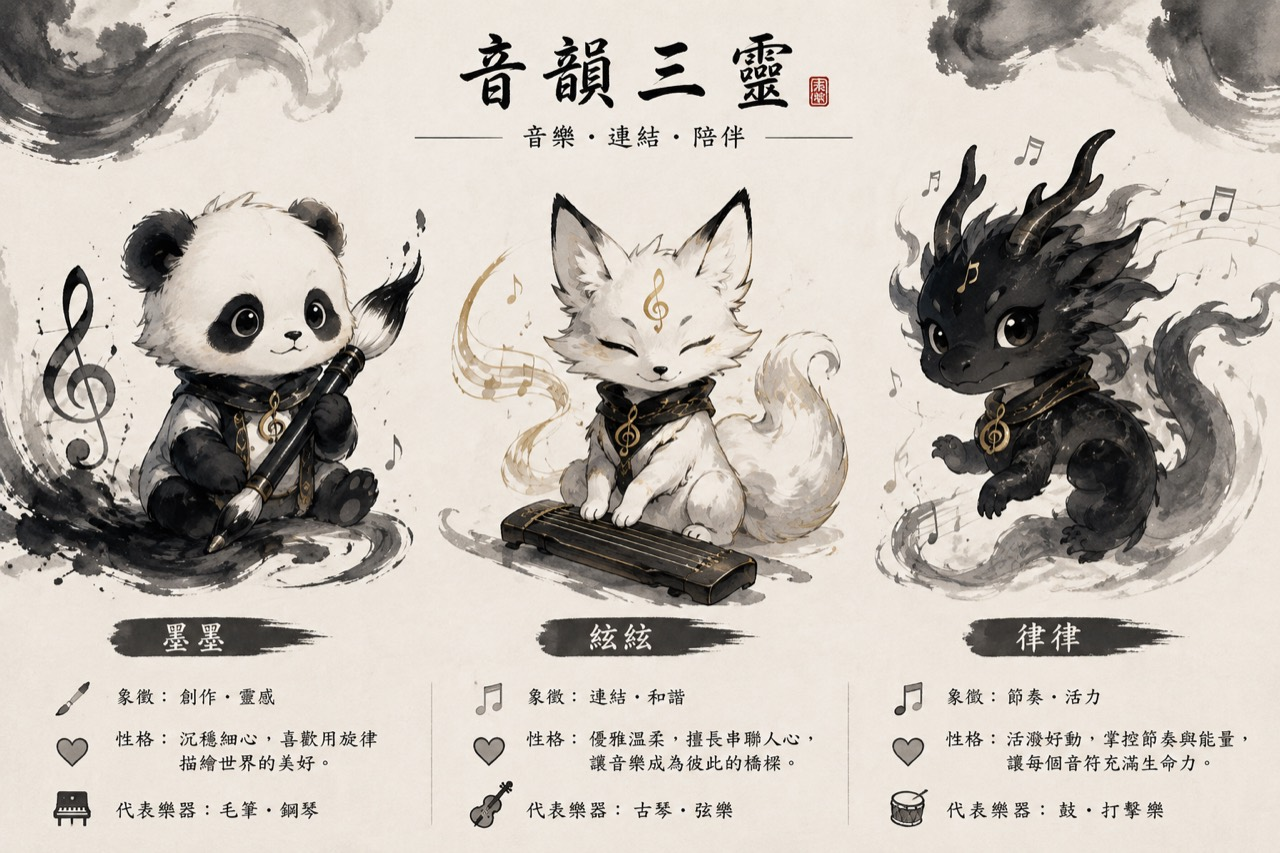
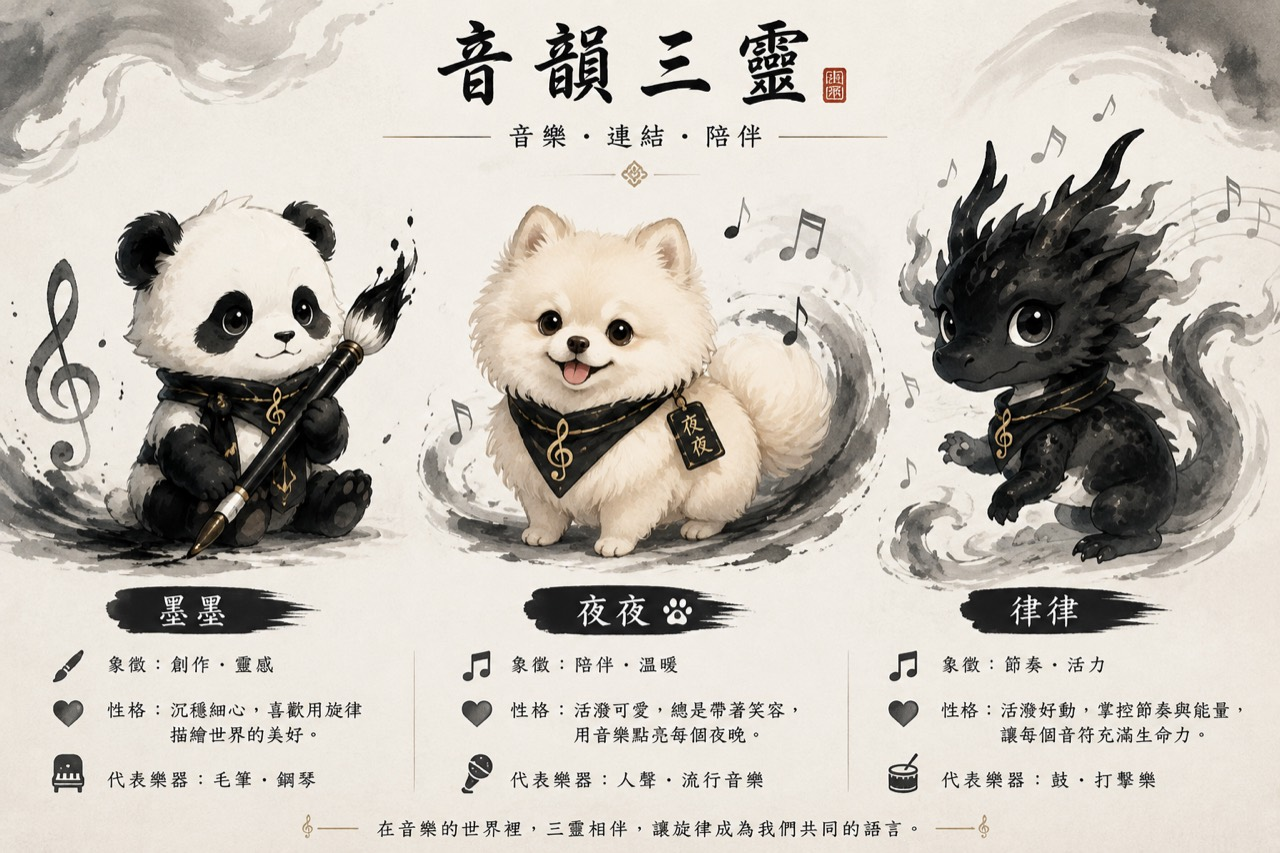
Replace fox mascot with Pomeranian

diff --git a/styles.css b/styles.css
@@ -37,13 +37,13 @@ body,body :where(a,button,input,select,textarea,label,p,span,small,strong,b,em,l
 .spirit-card:hover{transform:translateY(-7px);box-shadow:0 25px 58px rgba(35,51,43,.14);border-color:rgba(41,71,63,.34)}
 .spirit-card:after{content:'';position:absolute;left:0;right:0;bottom:0;height:3px;background:var(--green);transform:scaleX(0);transform-origin:left;transition:transform .35s}
 .spirit-card:hover:after,.spirit-card.is-playing:after{transform:scaleX(1)}
-.spirit-xianxian:after{background:var(--gold)}
+.spirit-yeye:after{background:var(--gold)}
 .spirit-lulu:after{background:var(--red)}
 .spirit-portrait{position:relative;display:block;width:100%;aspect-ratio:1/1;overflow:hidden;padding:0;border:0;border-bottom:1px solid var(--line);background:#efede6;cursor:pointer;text-align:left;-webkit-appearance:none;appearance:none}
 .spirit-portrait:focus-visible,.spirit-action:focus-visible,.spirit-ensemble:focus-visible{outline:3px solid rgba(156,60,50,.38);outline-offset:3px}
 .spirit-portrait img{position:absolute;top:-30%;width:300%;max-width:none;height:auto;filter:saturate(.82) contrast(1.05);transition:filter .3s,transform .3s;user-select:none;pointer-events:none}
 .spirit-momo .spirit-portrait img{left:0}
-.spirit-xianxian .spirit-portrait img{left:-100%;top:-39%}
+.spirit-yeye .spirit-portrait img{left:-100%;top:-38%}
 .spirit-lulu .spirit-portrait img{left:-200%}
 .spirit-card:hover .spirit-portrait img{filter:saturate(.98) contrast(1.07)}
 .spirit-hint{position:absolute;right:14px;bottom:14px;padding:7px 10px;background:rgba(28,45,39,.82);color:#fff;font-size:10px;letter-spacing:.12em;backdrop-filter:blur(7px);transition:opacity .2s,transform .2s}
@@ -55,38 +55,38 @@ body,body :where(a,button,input,select,textarea,label,p,span,small,strong,b,em,l
 .spirit-copy>p:not(.spirit-trait):not(.spirit-response){min-height:76px;margin:0;color:#657069;font-size:13px;line-height:1.9}
 .spirit-action{display:flex;align-items:center;justify-content:space-between;width:100%;margin-top:18px;padding:12px 14px;border:1px solid var(--green);background:transparent;color:var(--green);font:600 12px var(--sans);letter-spacing:.08em;cursor:pointer;transition:background .25s,color .25s,transform .25s}
 .spirit-action:hover{background:var(--green);color:#fff;transform:translateY(-2px)}
-.spirit-xianxian .spirit-action{border-color:#9b7447;color:#8a6336}
-.spirit-xianxian .spirit-action:hover{background:#9b7447;color:#fff}
+.spirit-yeye .spirit-action{border-color:#9b7447;color:#8a6336}
+.spirit-yeye .spirit-action:hover{background:#9b7447;color:#fff}
 .spirit-lulu .spirit-action{border-color:var(--red);color:var(--red)}
 .spirit-lulu .spirit-action:hover{background:var(--red);color:#fff}
 .spirit-response{min-height:18px;margin:11px 0 0;color:#7c8580;font-size:10px;line-height:1.6;letter-spacing:.04em;transition:color .2s}
 .spirit-card.is-playing .spirit-response{color:var(--red)}
 .spirit-effects{position:absolute;inset:0;overflow:hidden;pointer-events:none}
 .spirit-particle{position:absolute;left:50%;top:58%;z-index:3;color:var(--green);font:700 20px var(--calligraphy)!important;text-shadow:0 2px 12px rgba(255,255,255,.8);opacity:0;animation:spirit-particle-float 1.45s cubic-bezier(.19,.76,.26,1) forwards;animation-delay:var(--delay)}
-.spirit-xianxian .spirit-particle{color:#a47b43}
+.spirit-yeye .spirit-particle{color:#a47b43}
 .spirit-lulu .spirit-particle{color:var(--red)}
 .spirit-card.is-playing .spirit-portrait:after{content:'';position:absolute;inset:18%;z-index:2;border:2px solid rgba(41,71,63,.25);border-radius:50%;animation:spirit-ring 1.25s ease-out forwards;pointer-events:none}
-.spirit-xianxian.is-playing .spirit-portrait:after{border-color:rgba(180,145,97,.42)}
+.spirit-yeye.is-playing .spirit-portrait:after{border-color:rgba(180,145,97,.42)}
 .spirit-lulu.is-playing .spirit-portrait:after{border-color:rgba(156,60,50,.48);animation:spirit-beat-ring .8s ease-out 2}
 .spirit-momo.is-playing .spirit-portrait img{animation:momo-brush 1.25s ease-in-out}
-.spirit-xianxian.is-playing .spirit-portrait img{animation:xianxian-chord 1.45s ease-in-out}
+.spirit-yeye.is-playing .spirit-portrait img{animation:yeye-sing 1.45s ease-in-out}
 .spirit-lulu.is-playing .spirit-portrait img{animation:lulu-beat .86s cubic-bezier(.2,.8,.3,1) 2}
 @keyframes spirit-particle-float{0%{opacity:0;transform:translate(-50%,-50%) scale(.4) rotate(0)}18%{opacity:1}100%{opacity:0;transform:translate(calc(-50% + var(--x)),calc(-50% + var(--y))) scale(1.25) rotate(var(--rotation))}}
 @keyframes spirit-ring{0%{opacity:.75;transform:scale(.45)}100%{opacity:0;transform:scale(1.45)}}
 @keyframes spirit-beat-ring{0%{opacity:.8;transform:scale(.5)}100%{opacity:0;transform:scale(1.7)}}
 @keyframes momo-brush{0%,100%{transform:translate(0) rotate(0)}28%{transform:translate(-1.6%,1%) rotate(-1.2deg)}55%{transform:translate(1.2%,-.8%) rotate(.8deg)}}
-@keyframes xianxian-chord{0%,100%{transform:scale(1) translateY(0)}35%{transform:scale(1.025) translateY(-1.5%)}68%{transform:scale(1.01) translateY(.8%)}}
+@keyframes yeye-sing{0%,100%{transform:scale(1) translateY(0) rotate(0)}22%{transform:scale(1.018) translateY(-1.2%) rotate(-.45deg)}48%{transform:scale(1.025) translateY(-.4%) rotate(.5deg)}72%{transform:scale(1.012) translateY(-1%) rotate(-.25deg)}}
 @keyframes lulu-beat{0%,100%{transform:translateY(0) scale(1)}35%{transform:translateY(-2.4%) scale(1.018)}60%{transform:translateY(1%) scale(.995)}}
 @keyframes spirit-note-spin{to{transform:rotate(360deg)}}
 @media(max-width:1000px){.spirits-heading{grid-template-columns:1fr 1fr;gap:24px}.spirit-ensemble{justify-self:start}.spirit-grid{gap:15px}.spirit-copy{padding:20px}.spirit-copy h3{font-size:38px}.spirit-copy>p:not(.spirit-trait):not(.spirit-response){min-height:98px}}
-@media(max-width:760px){.spirits-heading{grid-template-columns:1fr}.spirits-heading>p{max-width:none}.spirit-grid{grid-template-columns:1fr;gap:22px}.spirit-card{max-width:480px;width:100%;margin:0 auto}.spirit-copy>p:not(.spirit-trait):not(.spirit-response){min-height:0}.spirit-portrait{aspect-ratio:1.08/1}.spirit-xianxian .spirit-portrait img{top:-44%}}
+@media(max-width:760px){.spirits-heading{grid-template-columns:1fr}.spirits-heading>p{max-width:none}.spirit-grid{grid-template-columns:1fr;gap:22px}.spirit-card{max-width:480px;width:100%;margin:0 auto}.spirit-copy>p:not(.spirit-trait):not(.spirit-response){min-height:0}.spirit-portrait{aspect-ratio:1.08/1}.spirit-yeye .spirit-portrait img{top:-42%}}
 @media(max-width:620px){.spirits-section{padding-top:68px;padding-bottom:68px}.spirits-heading{margin-bottom:30px}.spirits-heading h2{font-size:50px}.spirits-heading>p{font-size:14px}.spirit-ensemble{width:100%}.spirit-copy{padding:21px}.spirit-hint{right:11px;bottom:11px}.spirit-card:hover{transform:none}}
 @media(prefers-reduced-motion:reduce){.spirit-card,.spirit-card:after,.spirit-portrait img,.spirit-action,.spirit-ensemble{transition:none!important}.spirit-card.is-playing .spirit-portrait img,.spirit-card.is-playing .spirit-portrait:after,.spirit-particle,.spirit-ensemble.is-playing span{animation:none!important}}
 .spirit-card{--gaze-x:0px;--gaze-y:0px}
 .spirit-portrait img{translate:var(--gaze-x) var(--gaze-y);transition:filter .3s,transform .3s,translate .18s ease-out;will-change:transform,translate}
 .spirit-card.is-following .spirit-portrait{box-shadow:inset 0 0 0 2px rgba(255,255,255,.48)}
 .spirit-momo:not(.is-playing) .spirit-portrait img{animation:momo-idle 5.2s ease-in-out infinite}
-.spirit-xianxian:not(.is-playing) .spirit-portrait img{animation:xianxian-idle 6.4s ease-in-out infinite}
+.spirit-yeye:not(.is-playing) .spirit-portrait img{animation:yeye-idle 4.2s ease-in-out infinite}
 .spirit-lulu:not(.is-playing) .spirit-portrait img{animation:lulu-idle 3.4s ease-in-out infinite}
 .spirit-special{position:absolute;inset:0;z-index:2;overflow:hidden;pointer-events:none}
 .spirit-combo{position:absolute;left:50%;top:16px;z-index:5;padding:8px 13px;border:1px solid rgba(255,255,255,.62);background:rgba(156,60,50,.88);color:#fff;font:600 11px var(--sans)!important;letter-spacing:.16em;opacity:0;transform:translate(-50%,-18px) scale(.72);pointer-events:none;box-shadow:0 10px 28px rgba(62,38,30,.2)}
@@ -98,12 +98,14 @@ body,body :where(a,button,input,select,textarea,label,p,span,small,strong,b,em,l
 .spirit-momo .spirit-special i:nth-child(1){left:28%;top:61%}.spirit-momo .spirit-special i:nth-child(2){left:45%;top:54%;width:5px;height:5px}.spirit-momo .spirit-special i:nth-child(3){left:67%;top:46%;width:11px;height:11px}.spirit-momo .spirit-special i:nth-child(4){left:79%;top:38%;width:4px;height:4px}
 .spirit-momo.is-playing .spirit-special:before{animation:momo-ink-stroke 1.22s cubic-bezier(.2,.72,.28,1) forwards}
 .spirit-momo.is-playing .spirit-special i{animation:momo-ink-drop 1.1s ease-out forwards}.spirit-momo.is-playing .spirit-special i:nth-child(2){animation-delay:.12s}.spirit-momo.is-playing .spirit-special i:nth-child(3){animation-delay:.22s}.spirit-momo.is-playing .spirit-special i:nth-child(4){animation-delay:.32s}
-.spirit-xianxian .spirit-special{left:10%;right:9%;top:auto;bottom:7%;height:27%;overflow:visible;transform:rotate(-3deg)}
-.spirit-xianxian .spirit-special i{position:absolute;left:0;right:0;height:1px;background:linear-gradient(90deg,transparent,rgba(180,145,97,.88) 18%,rgba(255,239,184,.95) 52%,rgba(180,145,97,.62) 84%,transparent);opacity:0;transform-origin:center}
-.spirit-xianxian .spirit-special i:nth-child(1){top:18%}.spirit-xianxian .spirit-special i:nth-child(2){top:38%}.spirit-xianxian .spirit-special i:nth-child(3){top:58%}.spirit-xianxian .spirit-special i:nth-child(4){top:78%}
-.spirit-xianxian.is-playing .spirit-special i{animation:xianxian-string-wave .74s ease-in-out 2}.spirit-xianxian.is-playing .spirit-special i:nth-child(2){animation-delay:.07s}.spirit-xianxian.is-playing .spirit-special i:nth-child(3){animation-delay:.14s}.spirit-xianxian.is-playing .spirit-special i:nth-child(4){animation-delay:.21s}
-.spirit-xianxian .spirit-special:after{content:'♪';position:absolute;right:6%;top:-42%;color:#b49161;font:400 34px var(--calligraphy)!important;opacity:0;text-shadow:0 2px 14px rgba(255,255,255,.9)}
-.spirit-xianxian.is-playing .spirit-special:after{animation:xianxian-note-rise 1.35s ease-out forwards}
+.spirit-yeye .spirit-special{inset:0;overflow:hidden;transform:none}
+.spirit-yeye .spirit-special i{position:absolute;z-index:2;width:24px;height:24px;color:#a77848;font-style:normal;opacity:0;text-align:center;text-shadow:0 2px 14px rgba(255,255,255,.95)}
+.spirit-yeye .spirit-special i:before{content:'♥';font:400 23px/1 var(--calligraphy)!important}.spirit-yeye .spirit-special i:nth-child(2):before{content:'♪'}.spirit-yeye .spirit-special i:nth-child(4):before{content:'♫'}
+.spirit-yeye .spirit-special i:nth-child(1){left:17%;top:55%}.spirit-yeye .spirit-special i:nth-child(2){left:31%;top:36%}.spirit-yeye .spirit-special i:nth-child(3){right:25%;top:38%}.spirit-yeye .spirit-special i:nth-child(4){right:13%;top:57%}
+.spirit-yeye.is-playing .spirit-special i{animation:yeye-heart-float 1.35s ease-out forwards}.spirit-yeye.is-playing .spirit-special i:nth-child(2){animation-delay:.1s}.spirit-yeye.is-playing .spirit-special i:nth-child(3){animation-delay:.2s}.spirit-yeye.is-playing .spirit-special i:nth-child(4){animation-delay:.3s}
+.spirit-yeye .spirit-special:before,.spirit-yeye .spirit-special:after{position:absolute;z-index:3;color:#9b7447;font-family:var(--calligraphy)!important;opacity:0;text-shadow:0 2px 14px rgba(255,255,255,.95)}
+.spirit-yeye .spirit-special:before{content:'汪♪';left:14%;top:24%;font-size:25px}.spirit-yeye .spirit-special:after{content:'♫';right:14%;top:20%;font-size:36px}
+.spirit-yeye.is-playing .spirit-special:before{animation:yeye-song-pop 1.2s ease-out forwards}.spirit-yeye.is-playing .spirit-special:after{animation:yeye-note-drift 1.4s .14s ease-out forwards}
 .spirit-lulu .spirit-special i{position:absolute;left:52%;top:55%;width:28%;aspect-ratio:1;border:2px solid rgba(156,60,50,.72);border-radius:50%;opacity:0;transform:translate(-50%,-50%) scale(.2)}
 .spirit-lulu .spirit-special i:nth-child(2){border-color:rgba(180,145,97,.74)}.spirit-lulu .spirit-special i:nth-child(3){border-color:rgba(41,71,63,.62)}.spirit-lulu .spirit-special i:nth-child(4){border-style:dashed}
 .spirit-lulu.is-playing .spirit-special i{animation:lulu-rhythm-wave 1.08s ease-out forwards}.spirit-lulu.is-playing .spirit-special i:nth-child(2){animation-delay:.16s}.spirit-lulu.is-playing .spirit-special i:nth-child(3){animation-delay:.32s}.spirit-lulu.is-playing .spirit-special i:nth-child(4){animation-delay:.48s}
@@ -112,16 +114,17 @@ body,body :where(a,button,input,select,textarea,label,p,span,small,strong,b,em,l
 .spirit-lulu.is-playing .spirit-special:before{animation:lulu-beat-word 1s ease-out forwards}.spirit-lulu.is-playing .spirit-special:after{animation:lulu-beat-word 1s .2s ease-out forwards}
 .spirit-card.is-combo .spirit-special{filter:drop-shadow(0 0 12px rgba(180,145,97,.72))}
 @keyframes momo-idle{0%,100%{transform:translateY(0) rotate(0)}50%{transform:translateY(-.8%) rotate(.18deg)}}
-@keyframes xianxian-idle{0%,100%{transform:scale(1) translateY(0)}50%{transform:scale(1.008) translateY(-.55%)}}
+@keyframes yeye-idle{0%,100%{transform:scale(1) translateY(0) rotate(0)}38%{transform:scale(1.008) translateY(-.7%) rotate(-.15deg)}52%{transform:scale(1.01) translateY(-.9%) rotate(.18deg)}66%{transform:scale(1.006) translateY(-.45%) rotate(0)}}
 @keyframes lulu-idle{0%,100%{transform:translateY(0)}45%{transform:translateY(-.75%)}55%{transform:translateY(-.75%)}}
 @keyframes momo-ink-stroke{0%{opacity:0;transform:rotate(-17deg) scaleX(.06)}18%{opacity:.82}68%{opacity:.72;transform:rotate(-17deg) scaleX(1)}100%{opacity:0;transform:rotate(-17deg) scaleX(1.12)}}
 @keyframes momo-ink-drop{0%{opacity:0;transform:scale(.1)}28%{opacity:.82;transform:scale(1)}100%{opacity:0;transform:translate(9px,-24px) scale(.55)}}
-@keyframes xianxian-string-wave{0%{opacity:0;transform:scaleX(.75) translateY(0)}25%{opacity:1;transform:scaleX(1.02) translateY(-3px)}55%{opacity:.9;transform:scaleX(.98) translateY(3px)}100%{opacity:0;transform:scaleX(1) translateY(0)}}
-@keyframes xianxian-note-rise{0%{opacity:0;transform:translate(0,18px) rotate(-8deg) scale(.6)}24%{opacity:1}100%{opacity:0;transform:translate(-20px,-78px) rotate(13deg) scale(1.18)}}
+@keyframes yeye-heart-float{0%{opacity:0;transform:translateY(12px) scale(.45) rotate(-8deg)}24%{opacity:1;transform:translateY(0) scale(1.08) rotate(3deg)}100%{opacity:0;transform:translateY(-72px) scale(.82) rotate(16deg)}}
+@keyframes yeye-song-pop{0%{opacity:0;transform:translate(-8px,8px) scale(.55) rotate(-8deg)}28%{opacity:1;transform:translate(0,0) scale(1.08) rotate(2deg)}100%{opacity:0;transform:translate(-12px,-42px) scale(.9) rotate(-4deg)}}
+@keyframes yeye-note-drift{0%{opacity:0;transform:translate(0,12px) scale(.55) rotate(-6deg)}24%{opacity:1}100%{opacity:0;transform:translate(18px,-70px) scale(1.2) rotate(14deg)}}
 @keyframes lulu-rhythm-wave{0%{opacity:.82;transform:translate(-50%,-50%) scale(.16)}100%{opacity:0;transform:translate(-50%,-50%) scale(2.45)}}
 @keyframes lulu-beat-word{0%{opacity:0;transform:translateY(8px) scale(.6)}32%{opacity:1;transform:translateY(0) scale(1.08)}100%{opacity:0;transform:translateY(-24px) scale(.88)}}
 @keyframes spirit-combo-pop{0%{opacity:0;transform:translate(-50%,-18px) scale(.72)}20%,72%{opacity:1;transform:translate(-50%,0) scale(1)}100%{opacity:0;transform:translate(-50%,-8px) scale(.92)}}
 @keyframes spirit-card-combo{0%,100%{transform:translateY(-7px) rotate(0)}20%{transform:translateY(-9px) rotate(-.5deg)}45%{transform:translateY(-9px) rotate(.5deg)}70%{transform:translateY(-8px) rotate(-.25deg)}}
 @keyframes spirit-combo-glow{0%,100%{box-shadow:inset 0 0 0 0 rgba(180,145,97,0)}35%{box-shadow:inset 0 0 0 5px rgba(180,145,97,.55),inset 0 0 45px rgba(255,238,190,.28)}}
 @media(max-width:620px){.spirit-card.is-combo{animation:spirit-card-combo-mobile .62s ease-out}@keyframes spirit-card-combo-mobile{0%,100%{transform:translateY(0) rotate(0)}20%{transform:translateY(-2px) rotate(-.4deg)}45%{transform:translateY(-2px) rotate(.4deg)}70%{transform:translateY(-1px) rotate(-.2deg)}}}
-@media(prefers-reduced-motion:reduce){.spirit-momo:not(.is-playing) .spirit-portrait img,.spirit-xianxian:not(.is-playing) .spirit-portrait img,.spirit-lulu:not(.is-playing) .spirit-portrait img,.spirit-card.is-combo,.spirit-card.is-combo .spirit-portrait,.spirit-card.is-combo .spirit-combo,.spirit-card.is-playing .spirit-special:before,.spirit-card.is-playing .spirit-special:after,.spirit-card.is-playing .spirit-special i{animation:none!important}.spirit-portrait img{translate:0 0!important}}
+@media(prefers-reduced-motion:reduce){.spirit-momo:not(.is-playing) .spirit-portrait img,.spirit-yeye:not(.is-playing) .spirit-portrait img,.spirit-lulu:not(.is-playing) .spirit-portrait img,.spirit-card.is-combo,.spirit-card.is-combo .spirit-portrait,.spirit-card.is-combo .spirit-combo,.spirit-card.is-playing .spirit-special:before,.spirit-card.is-playing .spirit-special:after,.spirit-card.is-playing .spirit-special i{animation:none!important}.spirit-portrait img{translate:0 0!important}}

diff --git a/index.html b/index.html
@@ -4,7 +4,7 @@
   <meta charset="UTF-8" />
   <meta name="viewport" content="width=device-width, initial-scale=1.0" />
   <title>古韻新生｜全國音樂大賽</title>
-  <link rel="stylesheet" href="styles.css?v=20260810-spirit-animations-v2" />
+  <link rel="stylesheet" href="styles.css?v=20260810-pomeranian-yeye" />
 </head>
 <body>
   <div class="ink-blot ink-one"></div><div class="ink-blot ink-two"></div>
@@ -48,15 +48,15 @@
         </div>
         <div class="spirit-grid">
           <article class="spirit-card spirit-momo" data-spirit="momo">
-            <button class="spirit-portrait" type="button" data-spirit-action="momo" aria-label="與墨墨互動"><img src="assets/music-spirits.jpg" alt="拿著毛筆的熊貓守護靈墨墨" /><span class="spirit-effects" aria-hidden="true"></span><span class="spirit-special" aria-hidden="true"><i></i><i></i><i></i><i></i></span><span class="spirit-combo" aria-hidden="true">默契連擊</span><span class="spirit-hint">點我互動</span></button>
+            <button class="spirit-portrait" type="button" data-spirit-action="momo" aria-label="與墨墨互動"><img src="assets/music-spirits.jpg?v=20260810-pomeranian-yeye" alt="拿著毛筆的熊貓守護靈墨墨" /><span class="spirit-effects" aria-hidden="true"></span><span class="spirit-special" aria-hidden="true"><i></i><i></i><i></i><i></i></span><span class="spirit-combo" aria-hidden="true">默契連擊</span><span class="spirit-hint">點我互動</span></button>
             <div class="spirit-copy"><span class="spirit-index">01 · CREATION</span><h3>墨墨</h3><p class="spirit-trait">創作・靈感</p><p>沉穩細心，喜歡用旋律描繪世界的美好。代表樂器是毛筆與鋼琴。</p><button class="spirit-action" type="button" data-spirit-action="momo">揮毫作曲 <span aria-hidden="true">✦</span></button><p class="spirit-response" aria-live="polite">墨墨正在等待你的靈感。</p></div>
           </article>
-          <article class="spirit-card spirit-xianxian" data-spirit="xianxian">
-            <button class="spirit-portrait" type="button" data-spirit-action="xianxian" aria-label="與絃絃互動"><img src="assets/music-spirits.jpg" alt="坐在古琴旁的白狐守護靈絃絃" /><span class="spirit-effects" aria-hidden="true"></span><span class="spirit-special" aria-hidden="true"><i></i><i></i><i></i><i></i></span><span class="spirit-combo" aria-hidden="true">默契連擊</span><span class="spirit-hint">點我互動</span></button>
-            <div class="spirit-copy"><span class="spirit-index">02 · HARMONY</span><h3>絃絃</h3><p class="spirit-trait">連結・和諧</p><p>優雅溫柔，擅長串聯人心，讓音樂成為彼此的橋樑。代表樂器是古琴與弦樂。</p><button class="spirit-action" type="button" data-spirit-action="xianxian">輕撥琴弦 <span aria-hidden="true">♫</span></button><p class="spirit-response" aria-live="polite">絃絃正安靜聆聽你的心聲。</p></div>
+          <article class="spirit-card spirit-yeye" data-spirit="yeye">
+            <button class="spirit-portrait" type="button" data-spirit-action="yeye" aria-label="與夜夜互動"><img src="assets/music-spirits.jpg?v=20260810-pomeranian-yeye" alt="繫著音符領巾的博美守護靈夜夜" /><span class="spirit-effects" aria-hidden="true"></span><span class="spirit-special" aria-hidden="true"><i></i><i></i><i></i><i></i></span><span class="spirit-combo" aria-hidden="true">默契連擊</span><span class="spirit-hint">點我互動</span></button>
+            <div class="spirit-copy"><span class="spirit-index">02 · COMPANION</span><h3>夜夜</h3><p class="spirit-trait">陪伴・溫暖</p><p>活潑可愛，總是帶著笑容，用音樂點亮每個夜晚。代表樂器是人聲與流行音樂。</p><button class="spirit-action" type="button" data-spirit-action="yeye">陪夜夜唱歌 <span aria-hidden="true">♫</span></button><p class="spirit-response" aria-live="polite">夜夜正在等你一起唱歌。</p></div>
           </article>
           <article class="spirit-card spirit-lulu" data-spirit="lulu">
-            <button class="spirit-portrait" type="button" data-spirit-action="lulu" aria-label="與律律互動"><img src="assets/music-spirits.jpg" alt="踏著節拍的黑龍守護靈律律" /><span class="spirit-effects" aria-hidden="true"></span><span class="spirit-special" aria-hidden="true"><i></i><i></i><i></i><i></i></span><span class="spirit-combo" aria-hidden="true">默契連擊</span><span class="spirit-hint">點我互動</span></button>
+            <button class="spirit-portrait" type="button" data-spirit-action="lulu" aria-label="與律律互動"><img src="assets/music-spirits.jpg?v=20260810-pomeranian-yeye" alt="踏著節拍的黑龍守護靈律律" /><span class="spirit-effects" aria-hidden="true"></span><span class="spirit-special" aria-hidden="true"><i></i><i></i><i></i><i></i></span><span class="spirit-combo" aria-hidden="true">默契連擊</span><span class="spirit-hint">點我互動</span></button>
             <div class="spirit-copy"><span class="spirit-index">03 · RHYTHM</span><h3>律律</h3><p class="spirit-trait">節奏・活力</p><p>活潑好動，掌控節奏與能量，讓每個音符充滿生命力。代表樂器是鼓與打擊樂。</p><button class="spirit-action" type="button" data-spirit-action="lulu">敲響節拍 <span aria-hidden="true">●</span></button><p class="spirit-response" aria-live="polite">律律已經準備好帶動節奏。</p></div>
           </article>
         </div>
@@ -95,6 +95,6 @@
   <script src="supabase-config.js"></script>
   <script src="supabase-client.js"></script>
   <script src="backend-config.js?v=20260809-admin-data"></script>
-    <script src="app.js?v=20260810-spirit-animations-v2"></script>
+    <script src="app.js?v=20260810-pomeranian-yeye"></script>
 </body>
 </html>

diff --git a/app.js b/app.js
@@ -603,10 +603,10 @@ const spiritInteractions = {
     duration: 0.54,
     gain: 0.034,
   },
-  xianxian: {
-    symbols: ['♪', '♫', '♬', '◇'],
-    messages: ['絃絃撥出和弦，讓兩顆心靠近了一點。', '琴弦輕響，溫柔的旋律正在流動。', '絃絃為你串起一段清澈的和聲。'],
-    notes: [392, 493.88, 587.33, 783.99],
+  yeye: {
+    symbols: ['♪', '♥', '汪', '♫'],
+    messages: ['夜夜搖著尾巴唱起晚安曲，陪伴值＋1。', '汪！夜夜用笑容點亮今晚的旋律。', '夜夜把你的心情唱成一首溫暖的歌。'],
+    notes: [392, 493.88, 587.33, 659.25],
     wave: 'sine',
     step: 0.12,
     duration: 0.62,
@@ -736,7 +736,7 @@ if (spiritEnsembleButton) spiritEnsembleButton.addEventListener('click', () => {
   const originalLabel = spiritEnsembleButton.innerHTML;
   spiritEnsembleButton.classList.add('is-playing');
   spiritEnsembleButton.innerHTML = '<span aria-hidden="true">♪</span> 三靈合奏中';
-  ['momo', 'xianxian', 'lulu'].forEach((spiritId, index) => {
+  ['momo', 'yeye', 'lulu'].forEach((spiritId, index) => {
     window.setTimeout(() => triggerSpirit(spiritId), index * 430);
   });
   window.setTimeout(() => {
